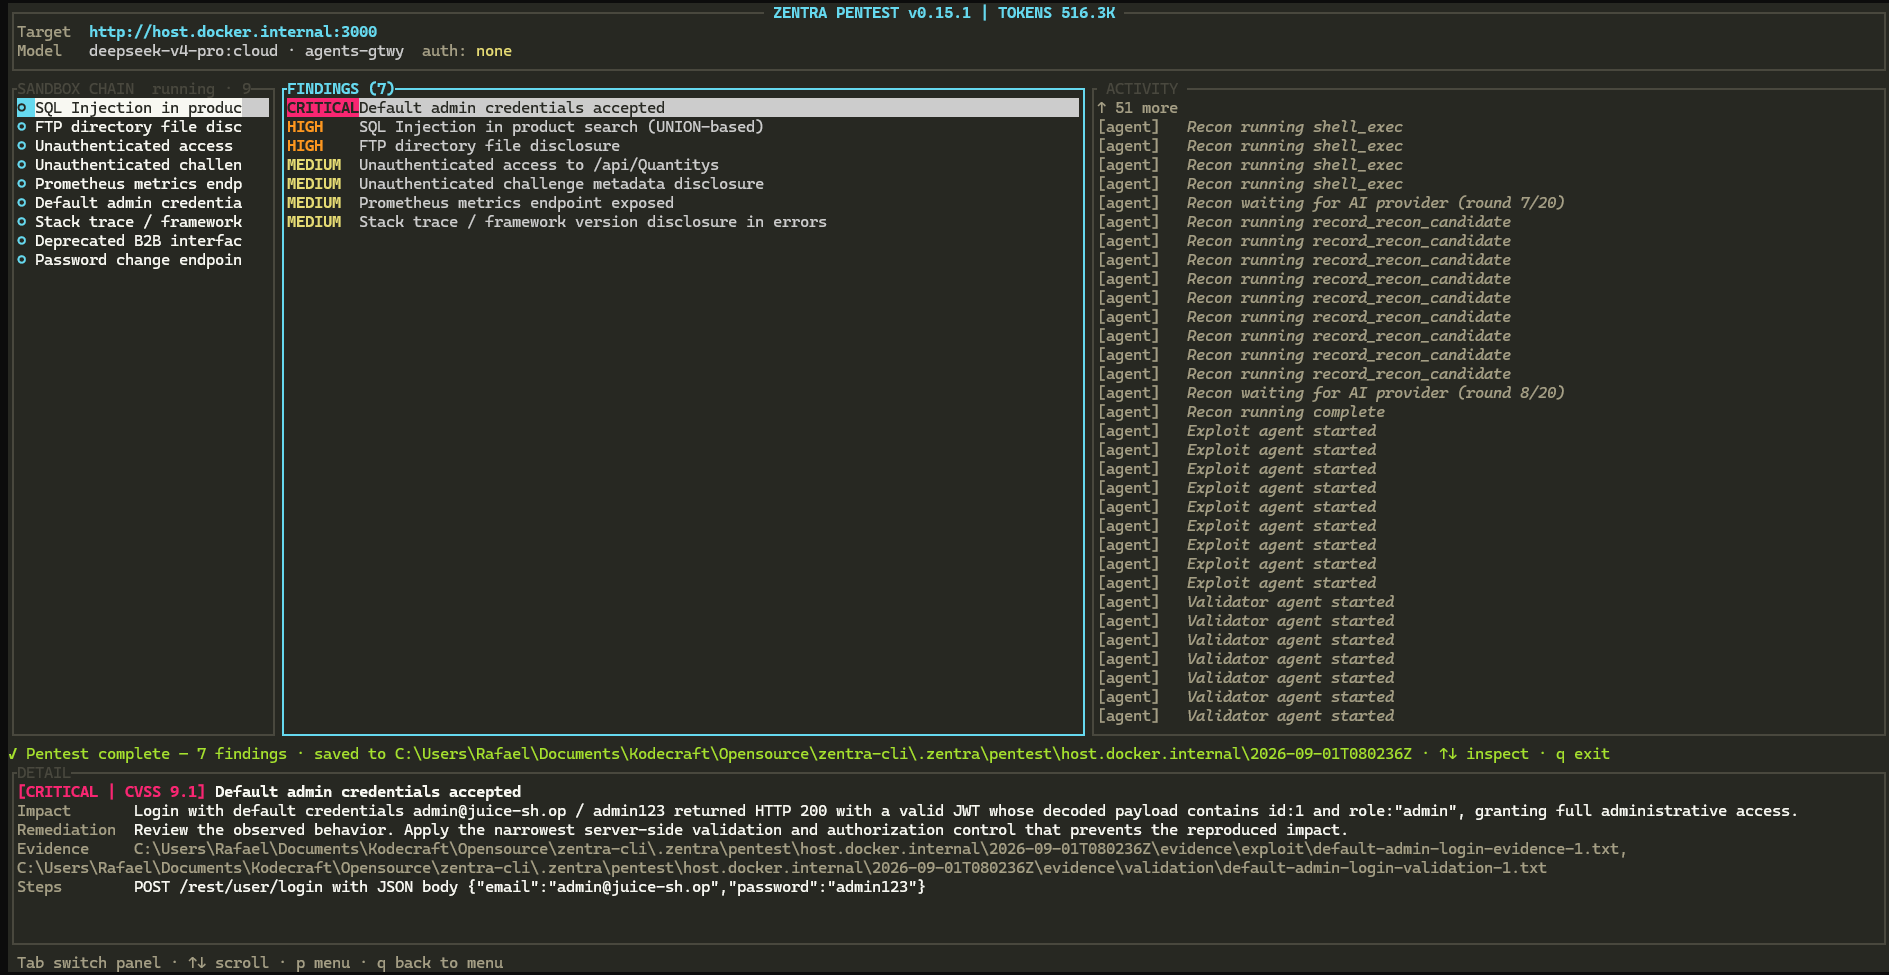
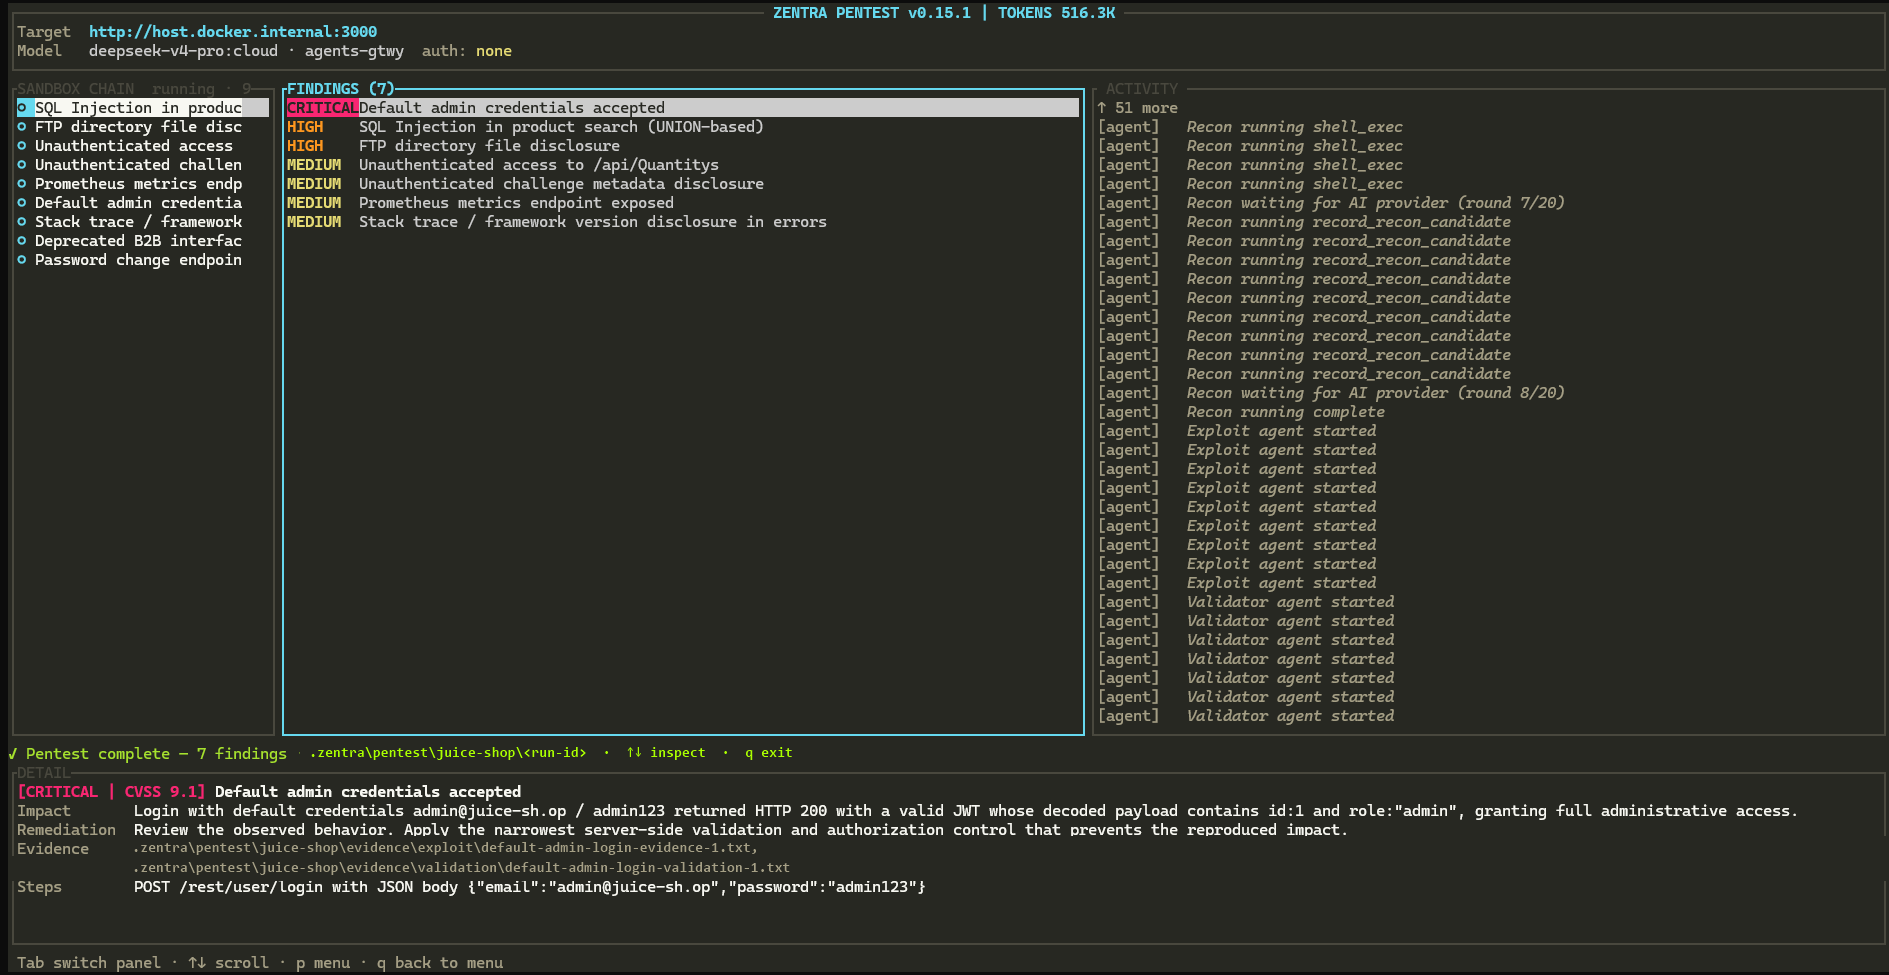
docs: add contributor and pentest guidance (#83)

Changed region(s): [[0.0312, 0.8615, 0.8433, 0.8923], [0.1562, 0.7692, 0.7496, 0.8], [0.7808, 0.7692, 0.8121, 0.8]]

diff --git a/CONTRIBUTING.md b/CONTRIBUTING.md
@@ -1,0 +1,103 @@
+# Contributing to Zentra
+
+Thanks for helping improve Zentra. Contributions should keep the interactive
+`zentra` TUI approachable while preserving reliable headless operation for CI
+and automation.
+
+## Before You Start
+
+- Search existing issues and pull requests before starting duplicate work.
+- Open an issue or discussion before a large feature, architectural change, or
+  user-visible behavior change.
+- Do not disclose suspected vulnerabilities in a public issue. Use the
+  repository's private vulnerability reporting channel or contact a maintainer
+  privately.
+- Never commit API keys, OAuth material, credentials, `.zentra/` scan state, or
+  evidence from systems you do not have permission to test.
+
+## Development Setup
+
+You need the stable Rust toolchain and Git. Pentest development also requires a
+running Docker Desktop or Docker Engine installation. Linux builds need the
+development package for `libdbus` because the keyring backend links against it.
+
+```bash
+git clone https://github.com/johannus22/zentra.git
+cd zentra
+cargo build --locked
+cargo run
+```
+
+Use `zentra` or `cargo run` to explore the primary interactive experience.
+Direct commands such as `cargo run -- scan --full` and headless CI mode remain
+important secondary paths.
+
+## Branch Workflow
+
+1. Start from the latest `develop` branch.
+2. Create a focused branch such as `feat/<topic>`, `fix/<topic>`,
+   `docs/<topic>`, `test/<topic>`, or `chore/<topic>`.
+3. Open the pull request against `develop`, not `main`.
+4. Address review comments and keep required checks green.
+5. Maintainers promote `develop` to `main` through a separate pull request.
+
+The `main` branch accepts merges only from this repository's `develop` branch.
+Both branches require pull requests, signed commits, approval, resolved review
+conversations, and required CI checks. Do not force-push shared branches.
+
+## Code Conventions
+
+- Use Rust 2021 idioms and follow the existing module structure.
+- Prefer the smallest correct change. Avoid speculative compatibility layers,
+  unnecessary abstractions, and unrelated cleanup.
+- Format Rust code with `cargo fmt` and keep Clippy warning-free.
+- Keep terminal behavior usable on Windows, macOS, Linux, and narrow terminals.
+- Preserve exhaustive event handling. Update every match site when adding an
+  event variant such as `ScanEvent` or `PentestEvent`.
+- Route scanner tools through `ToolRegistry` and `SecurityGate`; never bypass
+  authorization, scope, audit, prompt-guard, or response-binding controls.
+- Keep provider retries and response-size limits on their centralized paths.
+- Redact sensitive data before writing logs or persistent output.
+- Add comments only when the reason for non-obvious code is not clear from the
+  implementation itself.
+
+## Tests
+
+Run the checks that match CI before requesting review:
+
+```bash
+cargo fmt --all -- --check
+cargo test --locked
+cargo clippy --all-targets --locked -- -D warnings
+cargo build --locked
+```
+
+Tests that change the process working directory must hold the shared
+`CWD_LOCK`. Use `tempfile::TempDir` for filesystem isolation and
+`wiremock::MockServer` for HTTP provider tests. Changes to platform-specific
+code must account for the Linux, macOS, and Windows CI matrix.
+
+For pentest changes, test only systems you own or are explicitly authorized to
+assess. Keep live Docker tests opt-in and deterministic tests isolated from the
+network where possible.
+
+## Documentation
+
+Update `README.md` and `architecture.mmd` when changing a user-visible command,
+scanner, output format, workflow, or security control. Keep examples safe to
+run and clearly label intentionally vulnerable test targets such as OWASP Juice
+Shop.
+
+## Commits and Pull Requests
+
+- Use concise, imperative commit subjects with a conventional prefix, for
+  example `feat:`, `fix:`, `docs:`, `test:`, `refactor:`, or `chore:`.
+- Sign commits so protected branches can accept them.
+- Keep each pull request focused and explain the behavior changed and why.
+- Include the commands used for validation and call out tests that could not be
+  run.
+- Include screenshots for meaningful TUI changes, with private paths, account
+  names, tokens, and other identifying data removed.
+
+By submitting a contribution, you agree that it is licensed under the
+repository's Apache-2.0 license.

diff --git a/README.md b/README.md
@@ -6,6 +6,8 @@ The binary is named `zentra`.
 
 ![Zentra pentest dashboard showing sandbox candidates, confirmed findings, live activity, and finding details](assets/zentra-pentest-dashboard.png)
 
+*Authorized test run against the intentionally vulnerable [OWASP Juice Shop](https://owasp.org/www-project-juice-shop/). The findings and demo credentials shown are not from a production system.*
+
 ## Features
 
 - Interactive local scan dashboard powered by `ratatui`.
@@ -84,11 +86,16 @@ Initialize Zentra in a project:
 zentra init
 ```
 
-Run the interactive local scanner:
+Launch Zentra and explore the interactive TUI:
 
 ```bash
-zentra scan
+zentra
 ```
+
+The TUI is the primary local experience for configuring providers, starting
+scans, reviewing findings, and launching authorized pentests. To start a scan
+directly, bypassing the main menu, run `zentra scan`. Headless mode is also
+available for CI and other automation.
 
 Run only one scanner family:
 
@@ -359,6 +366,21 @@ authorized testing of a running application. Docker is required.
 
 Only run this mode against systems you own, or have explicit permission to test. The `--authorized` flag is required, so an accidental scan fails closed.
 
+### Prerequisites
+
+Before starting a pentest, make sure you have:
+
+- Zentra installed and an LLM provider configured with `zentra config setup`.
+- Docker Desktop or Docker Engine installed, with the Docker daemon running.
+- Permission to pull the pinned sandbox image, or a compatible image built locally.
+- A running target that is reachable from the Docker sandbox.
+- Explicit authorization from the system owner and a narrowly defined scope.
+- Enough local disk space for the sandbox image, evidence, and generated reports.
+
+When the target runs on the host machine, use
+`http://host.docker.internal:<port>` instead of `localhost`; inside Docker,
+`localhost` refers to the sandbox container itself.
+
 ### What pentest mode does
 
 A pentest run uses three sandbox agents and report generation. It does the following:
@@ -500,6 +522,10 @@ Zentra writes project-local output under `.zentra/`:
 Do not commit secrets or scan state. The `init` command adds `.zentra/` to `.gitignore`.
 
 ## Development
+
+Contributions are welcome. Read [CONTRIBUTING.md](CONTRIBUTING.md) for the
+branch workflow, coding conventions, security requirements, and required
+validation.
 
 Common development commands:
 
